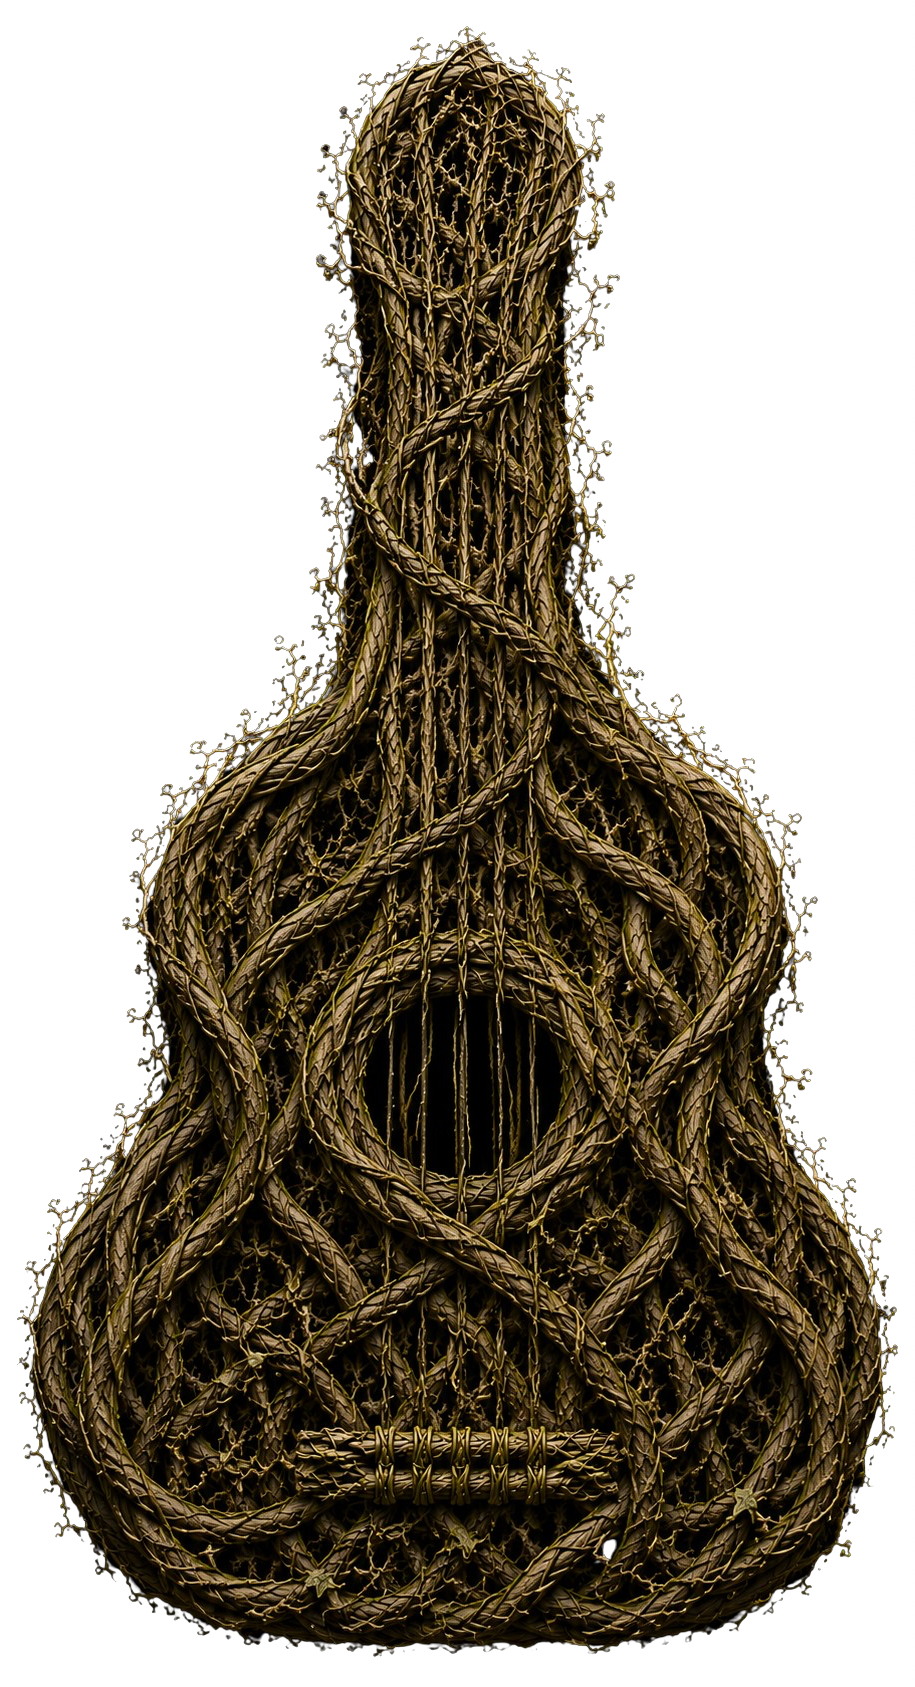
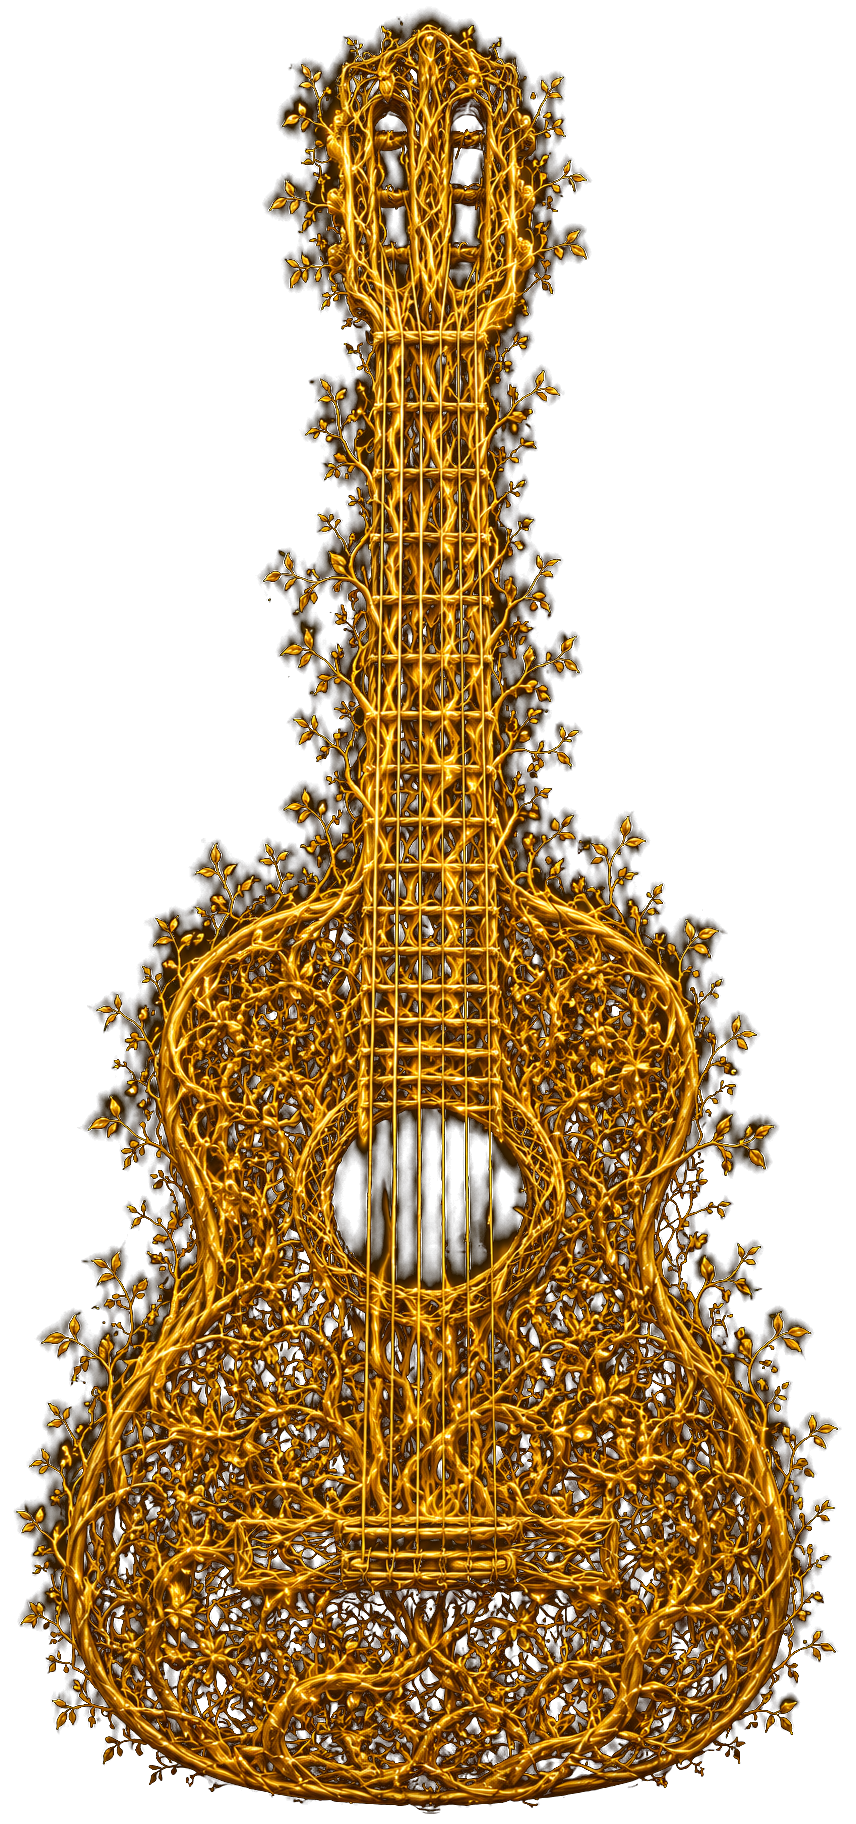
Swap in shape-matched vine guitar, retune scale

diff --git a/index.html b/index.html
@@ -130,8 +130,8 @@
        --vine-offset-y  : 植物版の縦ずれ補正（下+ / 上-）
        --mask-radius    : カーソル円の半径（px）
     ============================================================ */
-    --vine-scale-x: 1.07;  /* 植物版の横倍率（輪郭から少しはみ出す） */
-    --vine-scale-y: 1.38;  /* 植物版の縦倍率（首〜ヘッドの高さ合わせ用） */
+    --vine-scale-x: 1.03;  /* 植物版の横倍率（輪郭から少しはみ出す） */
+    --vine-scale-y: 1.25;  /* 植物版の縦倍率（首〜ヘッドの高さ合わせ用） */
     --vine-offset-x: 0px;
     --vine-offset-y: 0px;
     --mask-radius: 80px;